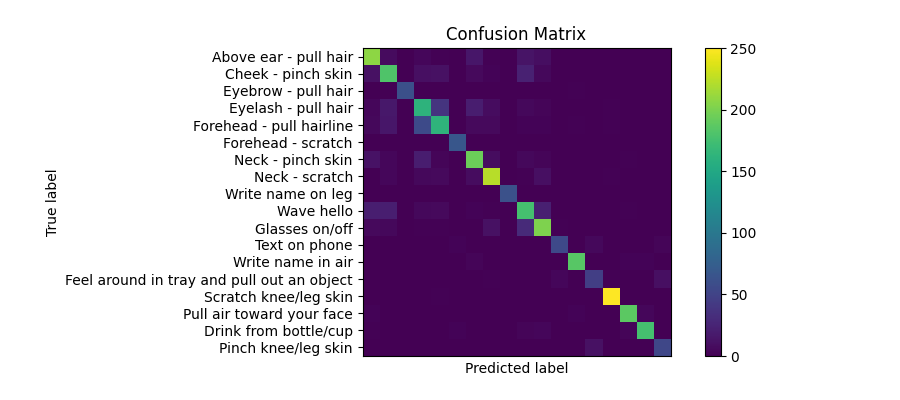
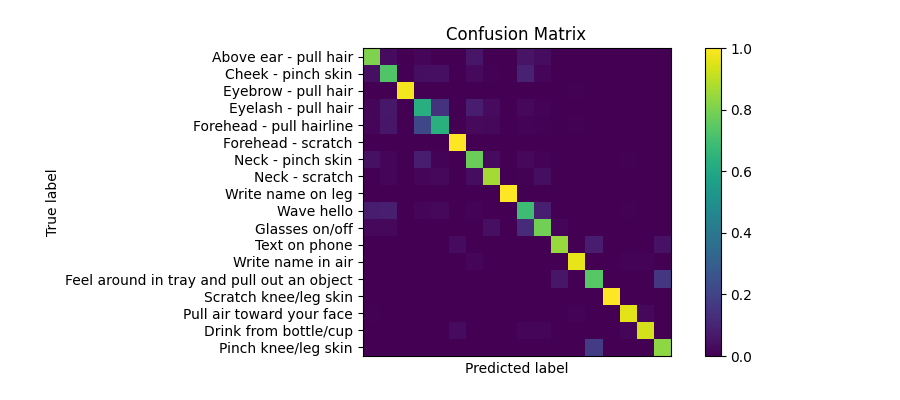
normalized confusion matrices

diff --git a/src/evaluate_models.py b/src/evaluate_models.py
@@ -26,7 +26,7 @@ def plot_cm(cm, fname):
     disp.plot(include_values=False, ax=ax)
     plt.title("Confusion Matrix")
     plt.xticks([])
-    disp.im_.set_clim([0, 250])
+    disp.im_.set_clim([0, 1])
     plt.savefig(fname)
     plt.close('all')
 
@@ -59,7 +59,8 @@ labels = metric.target_gestures + metric.non_target_gestures
 cms = []
 for idx, c_sub in enumerate(c_subs):
     ty_pred = df[c_sub]
-    cm = confusion_matrix(y_true, ty_pred)
+    cm = confusion_matrix(y_true, ty_pred).astype('float')
+    cm /= cm.sum(axis=1)
     cms += [cm]
     plot_cm(cm, f'./data/figs/submission_{idx}.png')
 
